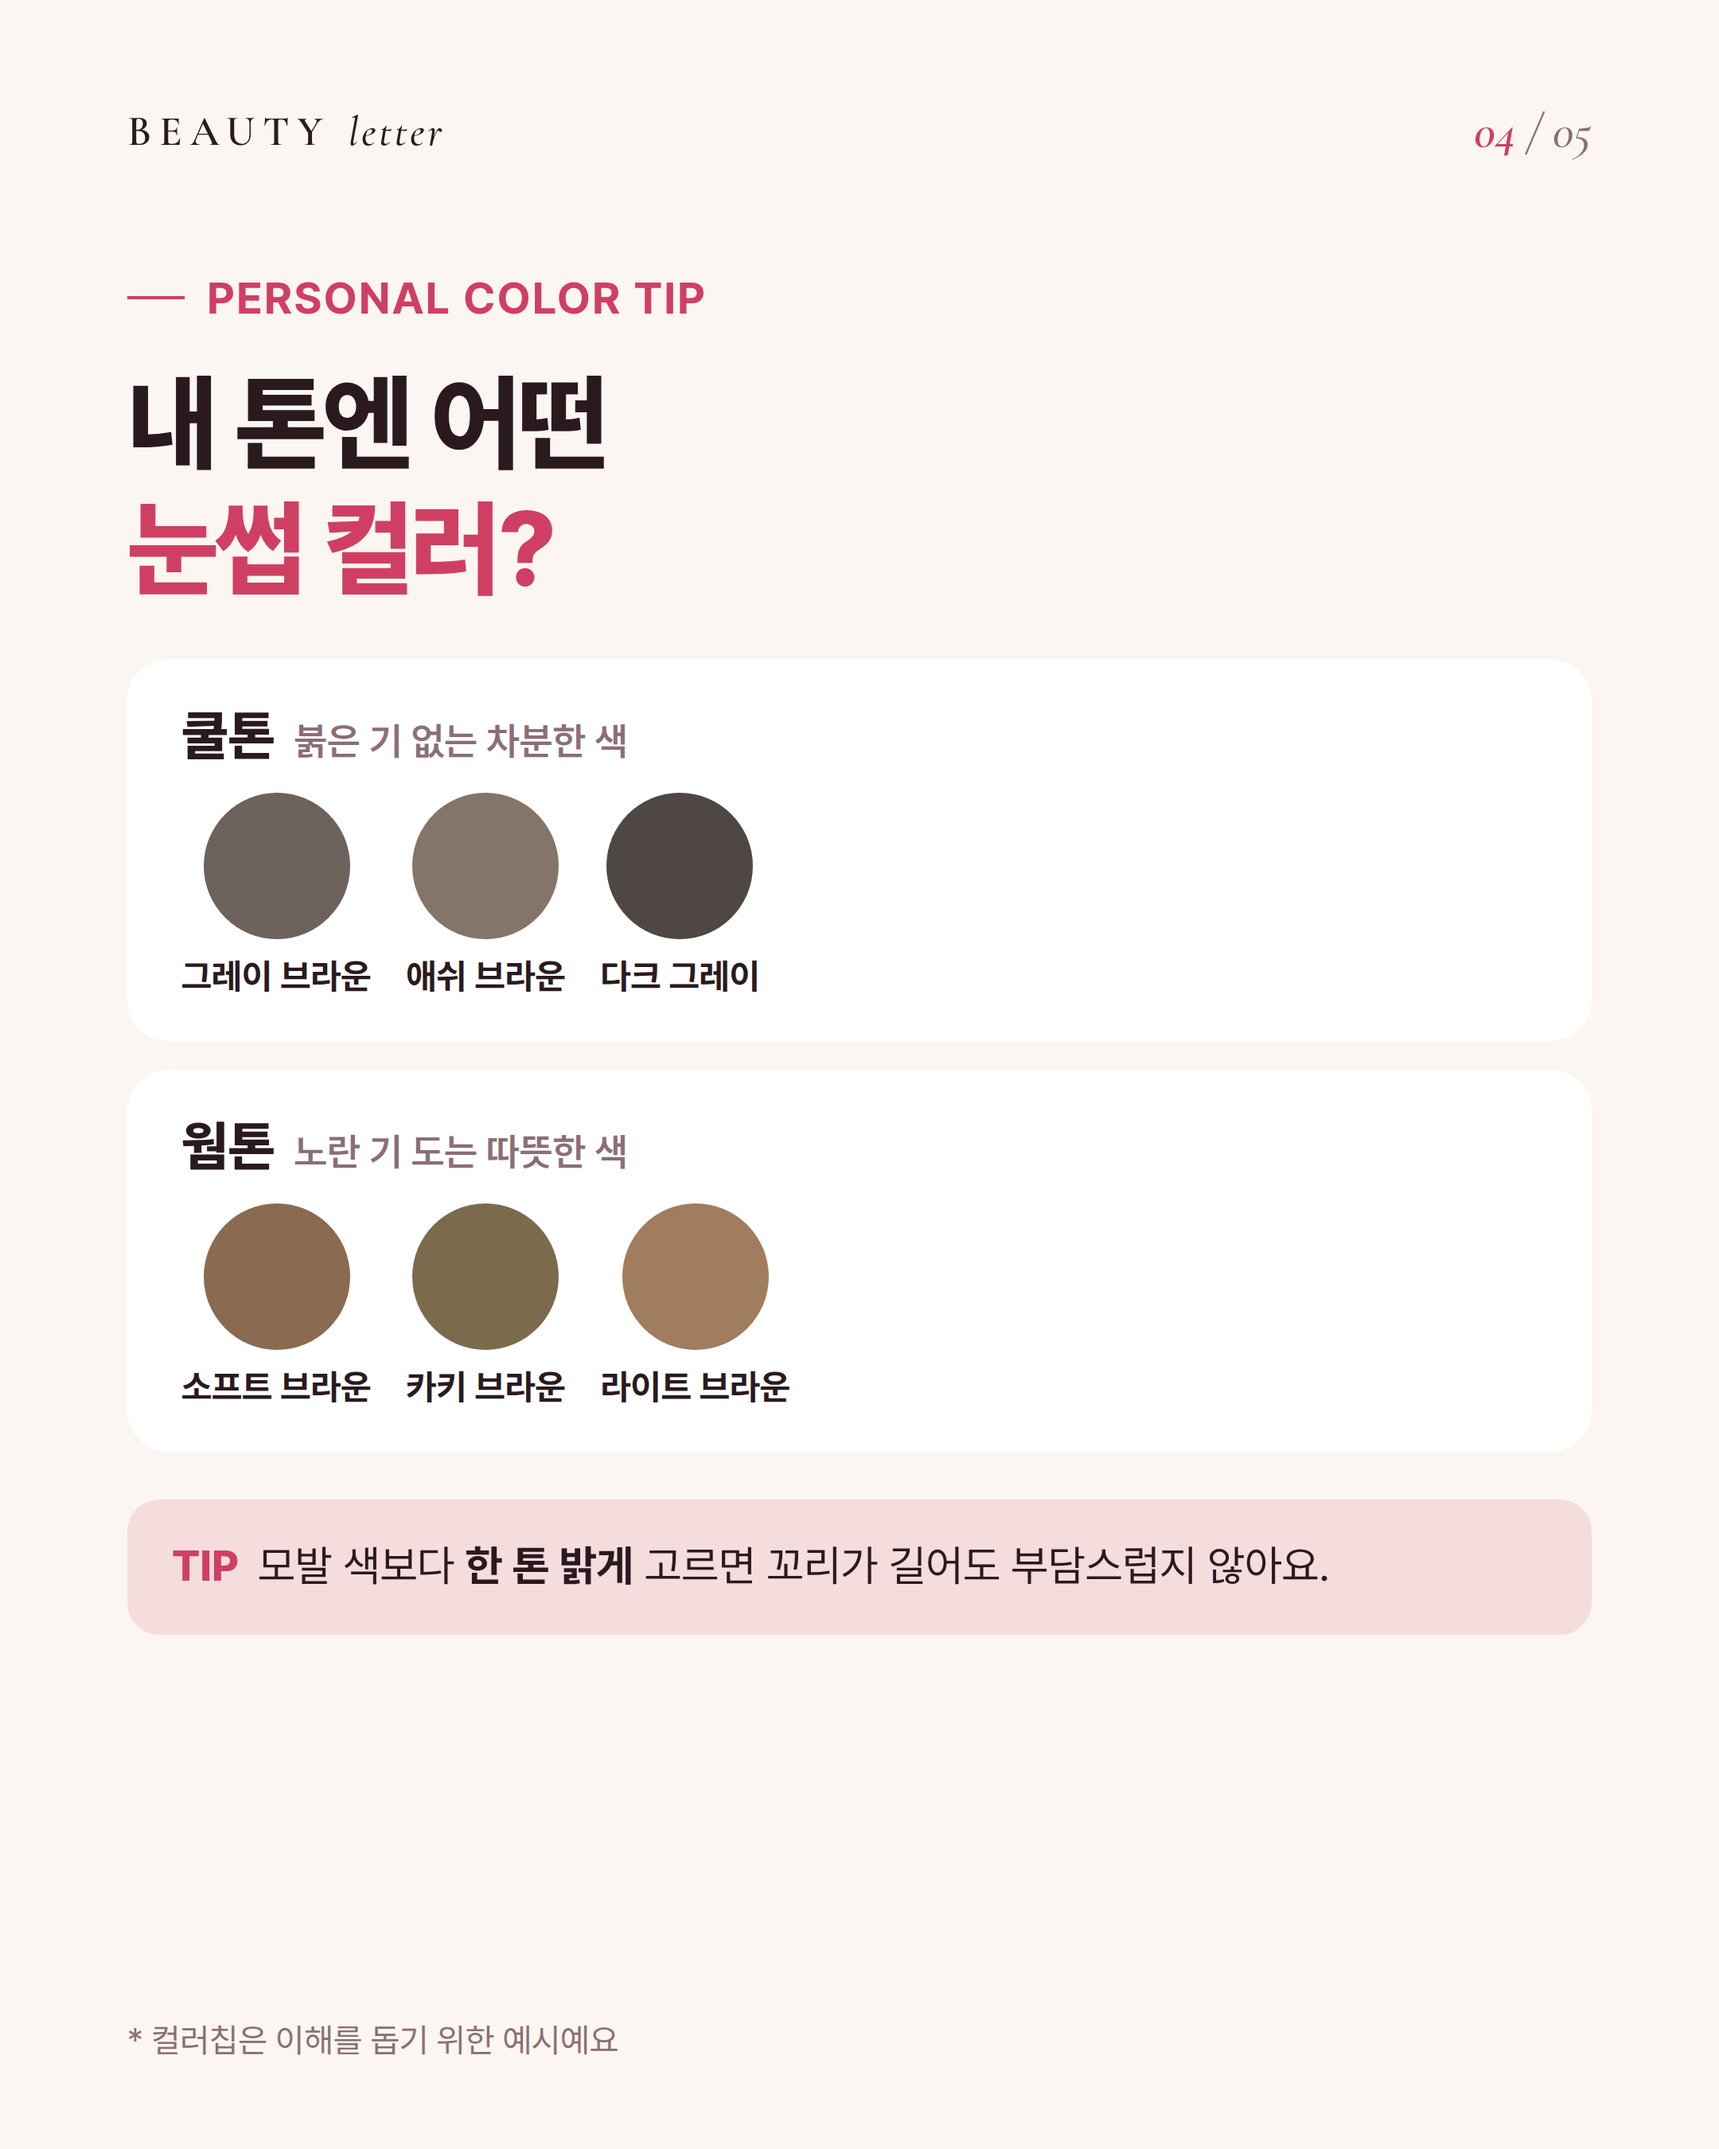
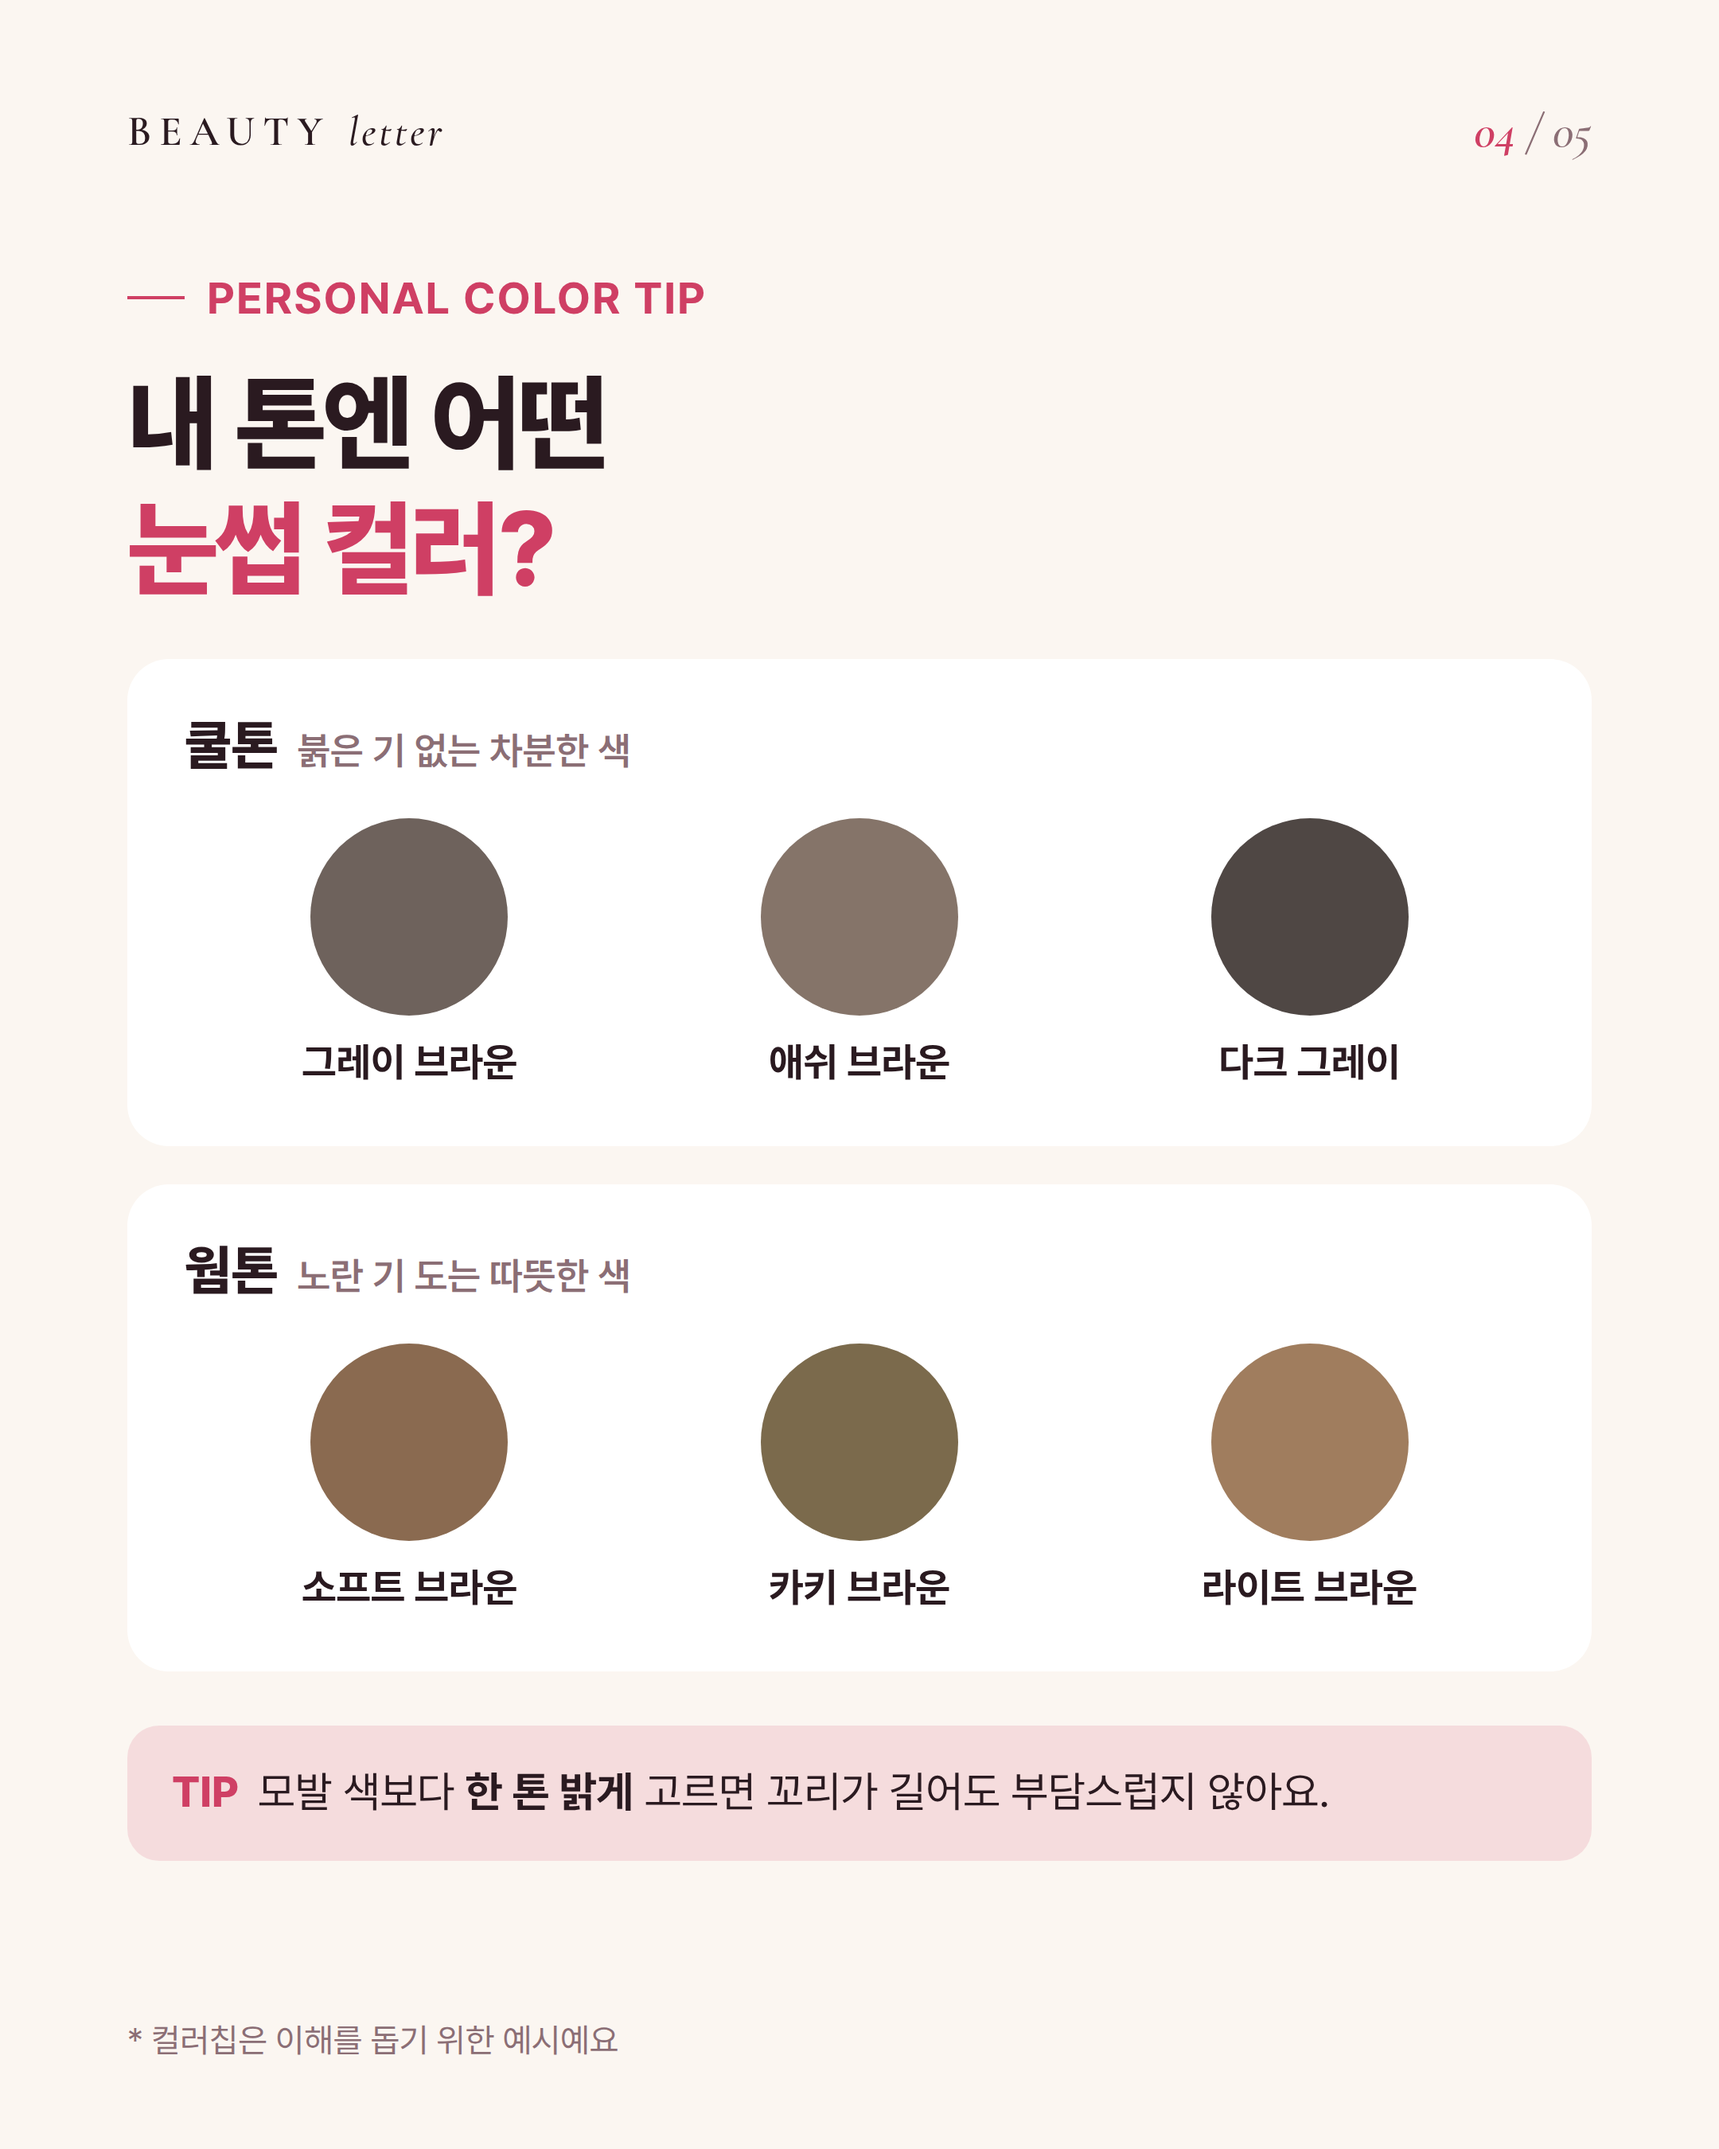
뷰티레터: 컬러칩 가운데 정렬, 10/8·10/9 표지 구성 변경, 표지 다양화 규칙
Claude-Session: https://claude.ai/code/session_01M29FXMb16fvzM5BCrcufte

Changed region(s): [[0.062, 0.4978, 0.9306, 0.8711], [0.0931, 0.3111, 0.5583, 0.4978], [0.6824, 0.3733, 0.8375, 0.4978]]

diff --git a/design/beauty_news/letters/2026-10-08_pm_cheek/slides.html b/design/beauty_news/letters/2026-10-08_pm_cheek/slides.html
@@ -11,7 +11,7 @@
 .new-badge { position: absolute; left: var(--pad); top: 190px; z-index: 2; font-family: var(--serif); font-style: italic; font-size: 44px; font-weight: 600; color: var(--rose); border: 2px solid var(--rose); border-radius: 999px; padding: 6px 30px 10px; }
 </style><link rel="stylesheet" href="extra.css" />
 </head><body><div class="sheet">
-<section class="card cover-photo" data-name="01_cover"><div data-slot="photo"><img src="img/cover_photo.jpg" alt="" style="object-position:center 15%" /></div><div class="shade"></div><div class="topbar"><div class="wordmark">BEAUTY <i>letter</i></div></div>
+<section class="card cover-photo" data-name="01_cover"><div data-slot="photo"><img src="img/cover_photo.jpg" alt="" style="object-position:center 20%" /></div><div class="shade"></div><div class="topbar"><div class="wordmark">BEAUTY <i>letter</i></div></div>
   <div class="body"><div class="kicker"><span class="cat">Issue Letter</span><span class="sep">·</span><span>CHEEK TREND</span></div><h1>눈밑 블러셔 끝?<br/><span class="em">요즘은 볼 중앙 치크</span></h1><p class="sub">콧등까지 채우던 블러셔가 내려왔어요.<br/>힘 뺀 생기, 이렇게 바르세요.</p></div>
   </section>
 <section class="card lt" data-name="02_pos"><div class="topbar"><div class="wordmark" style="font-size:26px;letter-spacing:5px">BEAUTY <i>letter</i></div><div class="pageno"><b>02</b> / 06</div></div><div class="kicker">CHEEK POSITION</div><h2>블러셔 위치가<br/><span class="hl">아래로 내려왔어요</span></h2><div class="vis illu"><img src="img/illu_pos.jpg" alt=""/><div class="lb"><span>이전 · 눈밑~콧등 가로로</span><span class="on">요즘 · 볼 중앙, 살짝 아래</span></div></div><p class="ds">중안부를 짧아 보이게 하려고 눈밑부터 콧등까지 넓게 쓸던 블러셔. 요즘은 <b>볼 중앙이나 살짝 아래</b>에 스며들듯 얹어요.</p><div class="tip"><span>POINT</span>햇살을 받아 수줍게 상기된 듯, 인위적인 느낌을 빼는 게 핵심이에요.</div><div class="foot">* 출처: 코스모폴리탄 코리아 (2026.09.18)</div></section>

diff --git a/design/beauty_news/letters/2026-10-09_am_brow/slides.html b/design/beauty_news/letters/2026-10-09_am_brow/slides.html
@@ -11,7 +11,7 @@
 .new-badge { position: absolute; left: var(--pad); top: 190px; z-index: 2; font-family: var(--serif); font-style: italic; font-size: 44px; font-weight: 600; color: var(--rose); border: 2px solid var(--rose); border-radius: 999px; padding: 6px 30px 10px; }
 </style><link rel="stylesheet" href="extra.css" />
 </head><body><div class="sheet">
-<section class="card cover-photo" data-name="01_cover"><div data-slot="photo"><img src="img/cover_photo.jpg" alt="" style="object-position:center 15%" /></div><div class="shade"></div><div class="topbar"><div class="wordmark">BEAUTY <i>letter</i></div></div>
+<section class="card cover-photo" data-name="01_cover"><div data-slot="photo"><img src="img/cover_photo.jpg" alt="" style="object-position:center 20%" /></div><div class="shade"></div><div class="topbar"><div class="wordmark">BEAUTY <i>letter</i></div></div>
   <div class="body"><div class="kicker"><span class="cat">Issue Letter</span><span class="sep">·</span><span>BROW TAIL</span></div><h1>우아한 '어른 여자' 눈썹,<br/><span class="em">꼬리 길이가 킥</span></h1><p class="sub">짙게 그리지 말고 선과 길이만 바꿔요.<br/>가을 눈썹 하우투.</p></div>
   </section>
 <section class="card lt" data-name="02_tail"><div class="topbar"><div class="wordmark" style="font-size:26px;letter-spacing:5px">BEAUTY <i>letter</i></div><div class="pageno"><b>02</b> / 05</div></div><div class="kicker">WHY BROW TAIL</div><h2>뭉툭하게 끊지 말고<br/><span class="hl">관자놀이 쪽으로</span></h2><div class="vis illu"><img src="img/illu_tail.jpg" alt=""/><div class="lb"><span>뭉툭하게 끊은 꼬리</span><span class="on">눈꼬리보다 살짝 길게</span></div></div><p class="ds">눈꼬리보다 약간 길게 뺀 눈썹 꼬리는 시선을 옆으로 넓혀 <b>얼굴 옆 여백을 슬림하게</b> 채워줘요. 화려한 색조 없이도 세련돼 보여요.</p><div class="tip"><span>POINT</span>색을 진하게 올리기보다 꼬리의 길이와 선을 바꾸는 게 핵심이에요.</div><div class="foot">* 출처: 얼루어 코리아 (2026.10.06)</div></section>

diff --git a/design/beauty_news/letters/2026-10-06_am_uleok/extra.css b/design/beauty_news/letters/2026-10-06_am_uleok/extra.css
@@ -50,3 +50,12 @@
 .card .vis.illu .lb { display: grid; grid-auto-flow: column; grid-auto-columns: 1fr; padding: 4px 10px 22px; text-align: center; opacity: 1; }
 .card .vis.illu .lb span { display: block; margin: 0; font-size: 25px; font-weight: 700; color: var(--plum); opacity: 1; }
 .card .vis.illu .lb span.on { color: var(--rose); }
+
+.lt .tone .cs { justify-content: space-around; gap: 0; }
+.lt .tone .cs div { flex: 1; }
+.lt .tone { gap: 24px; margin-top: 16px; }
+.lt .tone > div { padding: 34px 36px 38px; }
+.lt .tone h3 { margin-bottom: 26px; }
+.lt .tone .cs i { width: 124px; height: 124px; margin-bottom: 14px; }
+.lt .tone .cs span { font-size: 25px; }
+.lt .tone + .tip { margin-top: 34px; }

diff --git a/design/beauty_news/letters/2026-10-08_pm_cheek/extra.css b/design/beauty_news/letters/2026-10-08_pm_cheek/extra.css
@@ -50,3 +50,12 @@
 .card .vis.illu .lb { display: grid; grid-auto-flow: column; grid-auto-columns: 1fr; padding: 4px 10px 22px; text-align: center; }
 .card .vis.illu .lb span { display: block; margin: 0; font-size: 25px; font-weight: 700; color: var(--plum); }
 .card .vis.illu .lb span.on { color: var(--rose); }
+
+.lt .tone .cs { justify-content: space-around; gap: 0; }
+.lt .tone .cs div { flex: 1; }
+.lt .tone { gap: 24px; margin-top: 16px; }
+.lt .tone > div { padding: 34px 36px 38px; }
+.lt .tone h3 { margin-bottom: 26px; }
+.lt .tone .cs i { width: 124px; height: 124px; margin-bottom: 14px; }
+.lt .tone .cs span { font-size: 25px; }
+.lt .tone + .tip { margin-top: 34px; }

diff --git a/design/beauty_news/letters/2026-10-09_am_brow/extra.css b/design/beauty_news/letters/2026-10-09_am_brow/extra.css
@@ -50,3 +50,12 @@
 .card .vis.illu .lb { display: grid; grid-auto-flow: column; grid-auto-columns: 1fr; padding: 4px 10px 22px; text-align: center; }
 .card .vis.illu .lb span { display: block; margin: 0; font-size: 25px; font-weight: 700; color: var(--plum); }
 .card .vis.illu .lb span.on { color: var(--rose); }
+
+.lt .tone .cs { justify-content: space-around; gap: 0; }
+.lt .tone .cs div { flex: 1; }
+.lt .tone { gap: 24px; margin-top: 16px; }
+.lt .tone > div { padding: 34px 36px 38px; }
+.lt .tone h3 { margin-bottom: 26px; }
+.lt .tone .cs i { width: 124px; height: 124px; margin-bottom: 14px; }
+.lt .tone .cs span { font-size: 25px; }
+.lt .tone + .tip { margin-top: 34px; }

diff --git a/design/beauty_news/DESIGN_GUIDE.md b/design/beauty_news/DESIGN_GUIDE.md
@@ -82,11 +82,15 @@
 매 레터를 아래 방식으로 만든다. 이 기본 세트는 **매번 따로 허락받지 않고 만들어도 된다** (사용자 상시 승인). 이 밖의 추가·재생성은 기존처럼 먼저 묻는다.
 - **표지 = AI 인물 클로즈업 1장** (Topview, Nano Banana 2 Lite, 4:5, 1K, 0.3크레딧)
   - 예쁜 20대 한국 여성, 얼굴이 크게 보이게 클로즈업. 35mm 필름 느낌, 자연광, 피부결이 살아 있는 사진(AI 티 줄이기: "real skin texture, not airbrushed, candid").
+  - **레터마다 구성이 확실히 달라야 한다** (2026-10-07 사용자 지시: 같은 느낌 반복이면 돈 쓸 의미가 없음). 만들기 전에 아래 '표지 기록'을 보고 직전 레터들과 **장소·각도·사람(헤어·분위기)·옷·조명** 중 최소 3가지를 바꾼다. 예: 카페 창가 정면 / 야외 공원 뒤돌아보기 / 스튜디오 측광 클로즈업 / 침대·거울 앞 셀피 느낌 / 위에서 내려다본 앵글 / 흑백·블루톤 등.
+  - 예쁜 인물 + AI 티 덜 나게: "beautiful like a Korean actress", "flyaway hairs, slight asymmetry, natural skin texture, shot on film, imperfect framing".
+  - 표지 기록(최근순): 10/9 눈썹=스튜디오·회색 배경·측광·묶은 머리·검정 터틀넥 / 10/8 치크=야외 단풍 공원·골든아워·뒤돌아보는 3/4 각도·갈색 웨이브 포니테일·흰 셔츠 / 10/6 단발=회색 벽 정면·처피뱅 단발·검정 니트 / 10/6 울먹=창가 턱 괴기·묶은 머리·크림 니트 / 10/5 립=입술 클로즈업·립펜슬 / 10/5 트렌드=카페 창가·생머리·크림 니트
   - 주제 메이크업·헤어가 얼굴에서 보여야 한다. 웃음보다 주제에 맞는 표정.
   - 제목이 입술·눈을 가리지 않게 얼굴이 화면 위쪽 절반에 오도록 잘라서 쓴다(필요하면 PIL로 크롭·확대). P.S. 배경은 표지 이미지가 자동으로 깔린다.
   - 헤어·메이크업처럼 사람이 필요 없는 주제(제품·네일 등)는 기존 규칙(풍경+누끼, 무료 사진)도 가능.
 - **본문 예시 그림 = 수채화 일러스트, 페이지당 1장** (Topview, Nano Banana 2 Lite, 16:9, 1K, 0.3크레딧)
   - 프롬프트 앞부분 고정: "Delicate watercolor and colored-pencil beauty illustration, soft fashion-magazine editorial style, warm cream paper background, muted dusty pink and beige palette, clean composition, evenly spaced panels." + 비교/단계 내용(왼쪽·가운데·오른쪽) + "Absolutely no text, no letters, no numbers, no labels."
+  - 컬러칩 줄은 카드 폭에 맞춰 **가운데 균등 정렬**(`.tone .cs {justify-content: space-around}`, 칩 124px)한다. 왼쪽으로 몰리지 않게.
   - 그림 안에는 글자를 넣지 않고, 아래에 HTML 라벨을 붙인다: `<div class="vis illu"><img src="img/illu_이름.jpg"/><div class="lb"><span>…</span><span class="on">…</span></div></div>` (CSS는 기존 레터 `extra.css`의 `.card .vis.illu` 블록 복사). 이미지는 위아래 7~9% 잘라서 저장.
   - SVG·CSS로 직접 그린 얼굴·입술·머리 그림은 쓰지 않는다 ("너무 구림").
 - Topview 동시 작업 한도가 있어 한 번에 4장 정도씩 나눠 제출한다. 여분 생성 금지(페이지당 1장).
